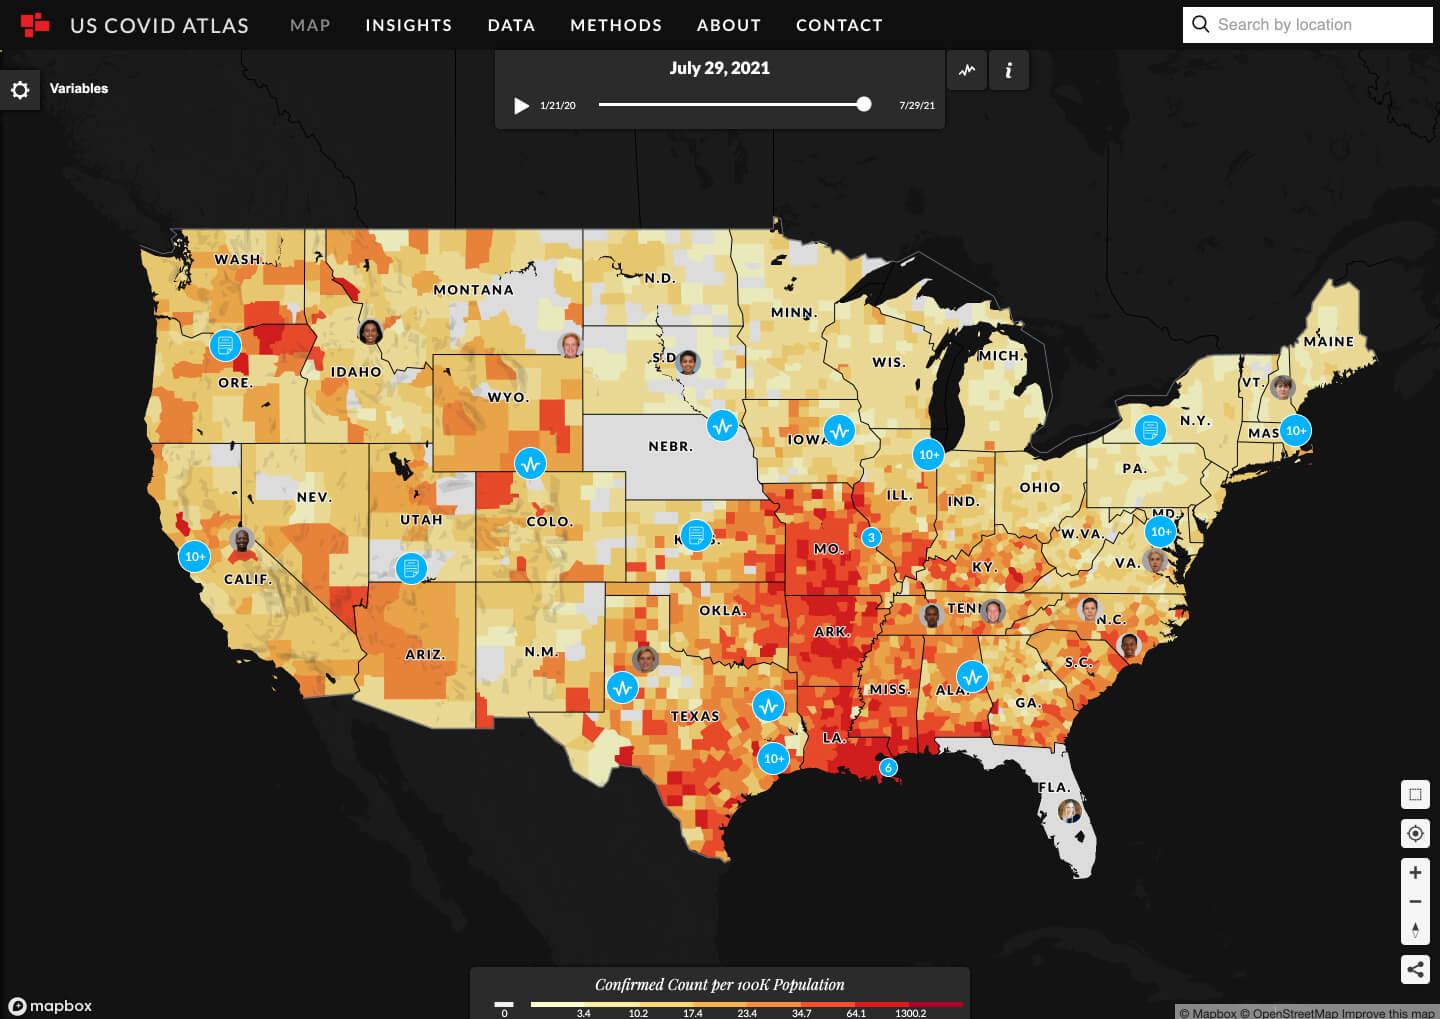
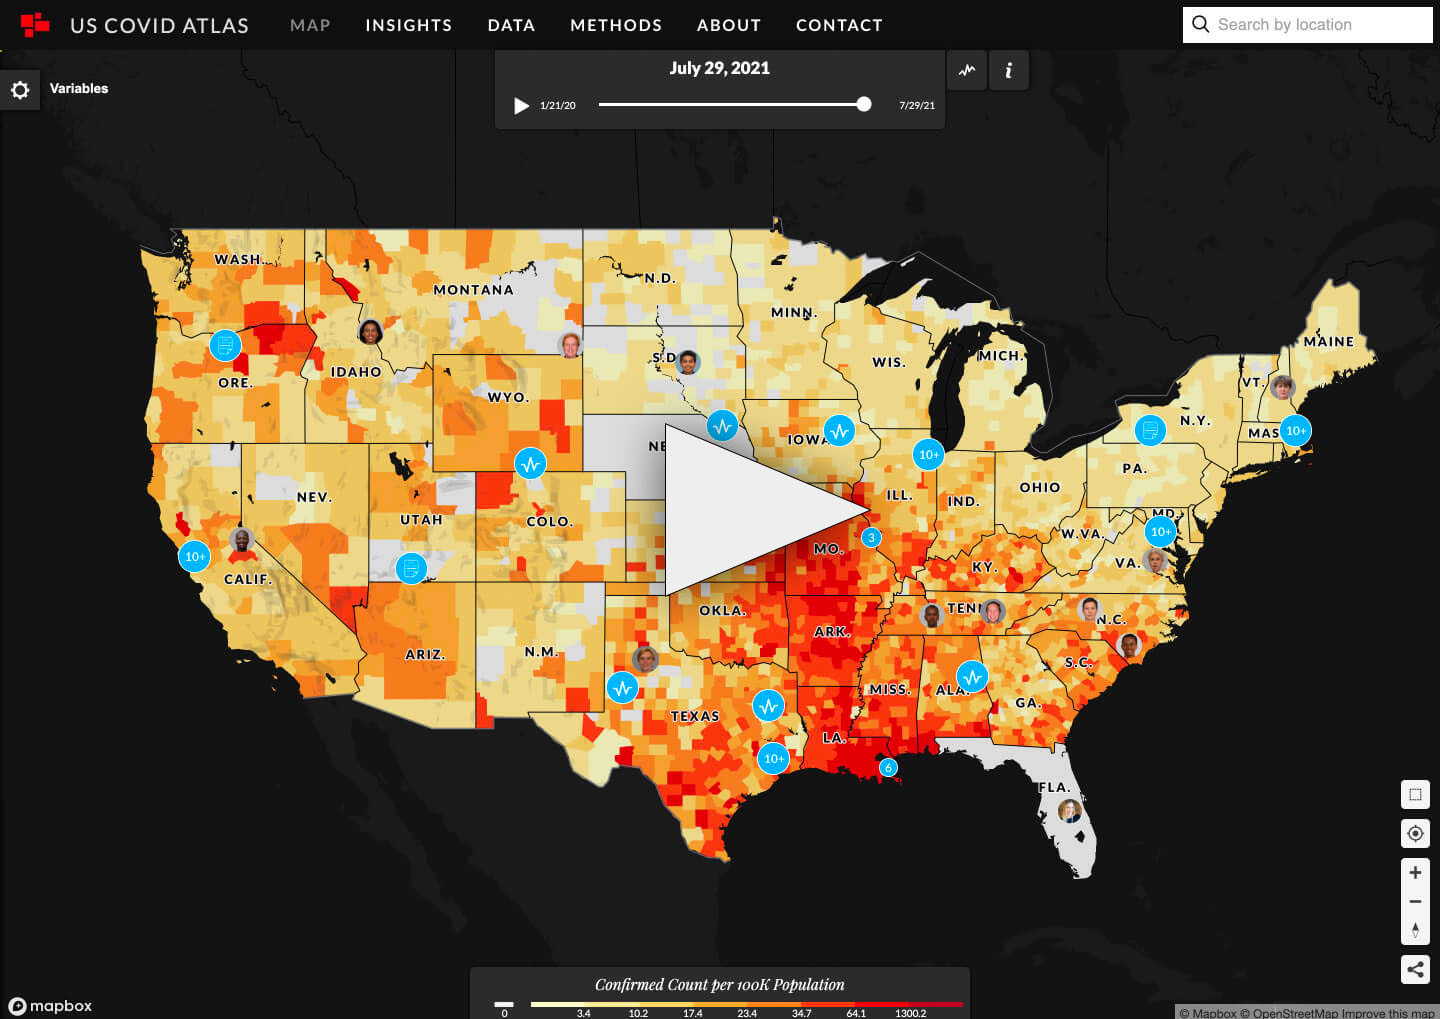
Intro video

diff --git a/pages/index.tsx b/pages/index.tsx
@@ -1,11 +1,11 @@
 import { useLayoutEffect, useRef, useState } from 'react'
-import { Box, Button, Grid, Typography } from '@mui/material'
+import { Box, Button, Grid, Modal, Typography } from '@mui/material'
 import type { NextPage } from 'next'
 import styled from 'styled-components'
 import { HomeSection } from '../components/HomeSection'
 import colors from '../config/colors'
 import styles from '../styles/Home.module.css'
-import { CtaLink, QuietCtaLink } from '../components/Interface/CTA'
+import { CtaButton, CtaLink, QuietCtaLink } from '../components/Interface/CTA'
 import Head from 'next/head'
 import Image from 'next/image'
 import { Icons } from '../components/Icons'
@@ -35,6 +35,40 @@ const StoryTypeContainer = styled(Box)<{ hideBorder?: boolean }>`
 	}
 `
 
+const VideoModalBox = styled(Box)`
+	position:absolute;
+	left: 50%;
+	top: 50%;
+	transform: translate(-50%, -50%);
+	width: 50vw;
+	background: ${colors.darkgray};
+	border: 1px solid ${colors.black};
+	box-shadow: 0px 0px 4px rgba(0, 0, 0, 0.35);
+	padding:2em;
+	iframe {
+		width: 100%;
+		max-width:100%;
+		aspect-ratio:16/9;
+	}
+	@media (max-width: 900px) {
+		width: 100vw;
+	}
+`
+const VideoModalInner = styled.div`
+	width:100%;
+	height:100%;
+	position:relative;
+	h3 {
+		margin:.5em 0;
+	}
+`
+const CloseButton = styled(Button)`
+	position:absolute;
+	top:0;
+	right:0;
+	background: ${colors.darkgray};
+	outline:none;
+`
 const ProgressIndicatorBar = styled.span<{ Progress: number }>`
 	position: fixed;
 	bottom: 0;
@@ -172,6 +206,7 @@ const FadeInPhoto: React.FC<FadeInPhotoProps> = ({
 }
 
 const Home: NextPage = () => {
+	const [videoModal, setVideoModal] = useState(false)
 	const containerRef = useRef<HTMLDivElement | null>(null)
 	const [homeRef, homeInView] = useInView({ threshold: 0.5 })
 	const [exampleMapRef, exampleMapInView] = useInView({ threshold: 0.5 })
@@ -261,6 +296,9 @@ const Home: NextPage = () => {
 						<CtaLink href="/submit" className="cta-button">
 							Share your story
 						</CtaLink>
+						<CtaButton onClick={() => setVideoModal(true)}>
+							<div className="icon">&#9656;</div> Learn more
+						</CtaButton>
 						<Typography>
 							Learn more by scrolling down, or jump to a topic below.
 						</Typography>
@@ -516,6 +554,31 @@ const Home: NextPage = () => {
 					</Grid>
 				</Grid>
 			</HomeSection>
+			<Modal
+				open={videoModal}
+				onClose={() => setVideoModal(false)}
+				aria-labelledby="video-modal"
+				aria-describedby="video-modal-description"
+				// className={styles.videoModal}
+			>
+				<VideoModalBox>
+					<VideoModalInner>
+					<h3>
+						Intro: US Covid Atlas and Atlas Stories
+					</h3>
+					<iframe
+						src="https://www.youtube.com/embed/uaB-PacriyA"
+						title="Overview - Atlas Stories"
+						frameBorder="0"
+						allow="accelerometer; autoplay; clipboard-write; encrypted-media; gyroscope; picture-in-picture"
+						allowFullScreen
+					/>
+					<CloseButton onClick={() => setVideoModal(false)}>
+						&times;
+					</CloseButton>
+					</VideoModalInner>
+				</VideoModalBox>
+			</Modal>
 		</div>
 	)
 }

diff --git a/components/Interface/CTA.tsx b/components/Interface/CTA.tsx
@@ -5,14 +5,27 @@ export const CtaButton = styled.button`
 	background: ${colors.orange};
 	color: ${colors.darkgray};
 	padding: 0.5em 1em;
-	border-radius: 0.25em;
 	font-weight: bold;
-	margin: 4em 0;
+	font-size:1rem;
+	outline:none;
+	border-radius:.25em;
+	margin: 1em;
 	transition: 250ms box-shadow;
-	box-shadow: 0px 0px 4px rgba(0, 0, 0, 0);
+	border:3px solid rgba(0,0,0,0);
+	/* box-shadow: 0px 0px 4px rgba(0, 0, 0, 0); */
 	cursor: pointer;
+	transform:translateY(-1px);
 	&:hover {
 		box-shadow: 0px 4px 4px rgba(0, 0, 0, 0.35);
+	}
+	&:focus, &:active {
+		border: 3px solid lightblue;
+	}
+	.icon {
+		font-size:2rem;
+		line-height:0;
+		display:inline-block;
+		transform:translateY(.125em);
 	}
 `
 
@@ -26,6 +39,7 @@ export const CtaLink = styled.a`
 	display: inline-block;
 	transition: 250ms box-shadow;
 	box-shadow: 0px 0px 4px rgba(0, 0, 0, 0);
+	border:3px solid rgba(0,0,0,0);
 	&:hover {
 		box-shadow: 0px 4px 4px rgba(0, 0, 0, 0.35);
 	}
